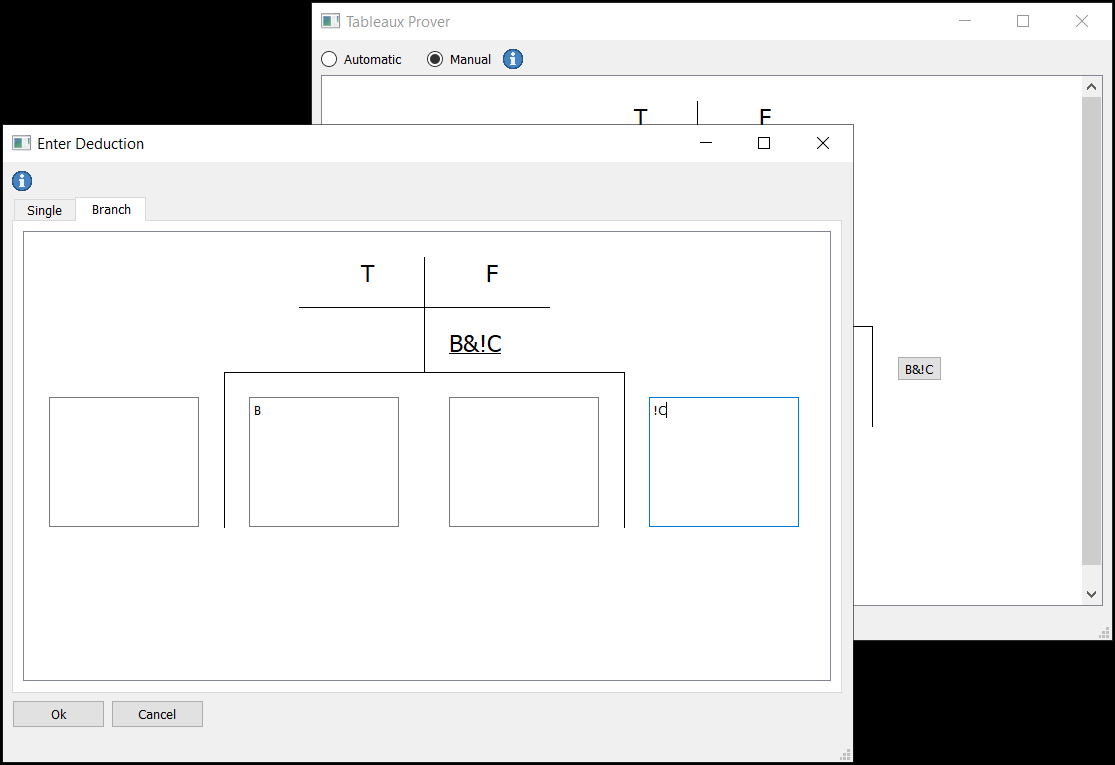
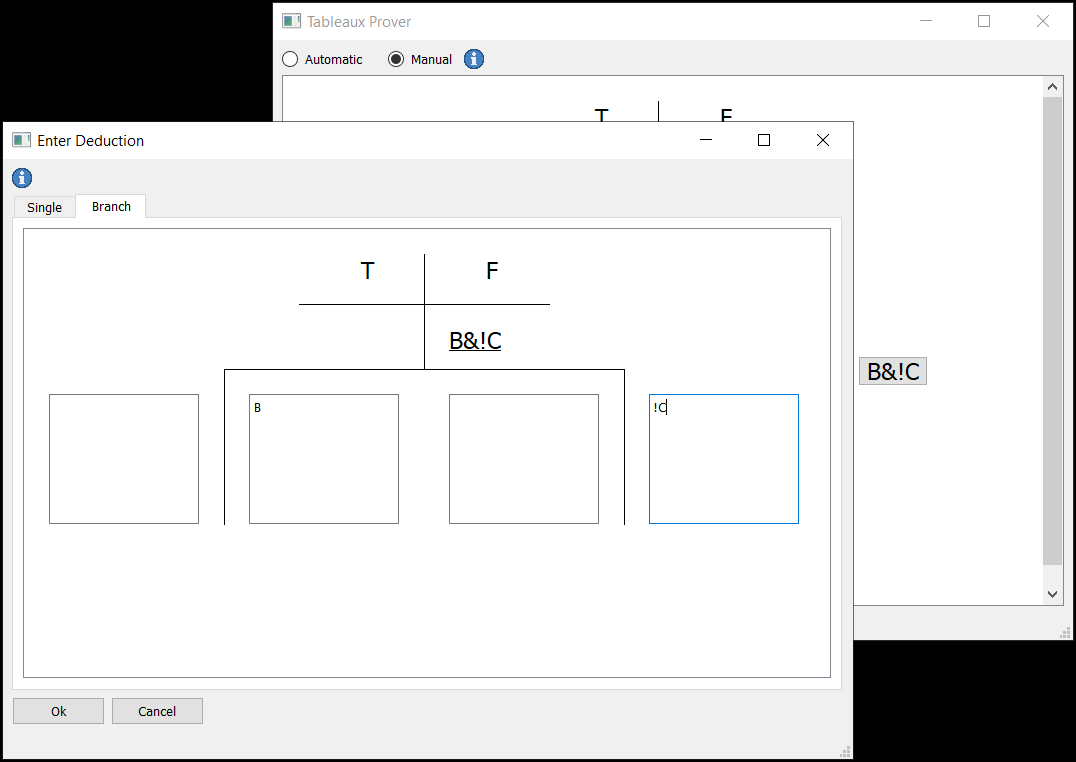
improved appearance of first gui concept

diff --git a/ui_concepts/run_concept_2.py b/ui_concepts/run_concept_2.py
@@ -5,8 +5,8 @@ import PySide2
 from PySide2.QtGui import QPainter, QPaintEvent
 from PySide2.QtWidgets import QApplication, QMainWindow, QWidget, QPushButton, QTextEdit
 from PySide2.QtCore import QFile
-from ui_mainwindow import Ui_MainWindow
-from ui_input_window import Ui_MainWindow as Ui_InputWindow
+from ui_concepts.ui_mainwindow import Ui_MainWindow
+from ui_concepts.ui_input_window import Ui_MainWindow as Ui_InputWindow
 
 
 def get_child_widget(parent: QWidget, name: str) -> Union[Optional[QWidget], None]:
@@ -29,9 +29,11 @@ class Main(QMainWindow):
         self.scroll_area_content = get_child_widget(self, "scrollAreaWidgetContents")
         self.scroll_area_content.installEventFilter(self)
 
+        normal_font = PySide2.QtGui.QFont('MS Shell Dlg 2', 14)
         btn = QPushButton(parent=self.scroll_area_content)
         btn.setText("B&&!C")
-        btn.setGeometry(575, 280, 45, 25)
+        btn.setGeometry(575, 280, 70, 30)
+        btn.setFont(normal_font)
         btn.show()
 
     def eventFilter(self, watched: PySide2.QtCore.QObject, event: PySide2.QtCore.QEvent):

diff --git a/ui_concepts/run_concept.py b/ui_concepts/run_concept.py
@@ -5,7 +5,7 @@ import PySide2
 from PySide2.QtGui import QPainter, QPaintEvent
 from PySide2.QtWidgets import QApplication, QMainWindow, QWidget
 from PySide2.QtCore import QFile
-from ui_mainwindow import Ui_MainWindow
+from ui_concepts.ui_mainwindow import Ui_MainWindow
 
 
 def get_child_widget(parent: QWidget, name: str) -> Union[Optional[QWidget], None]:
